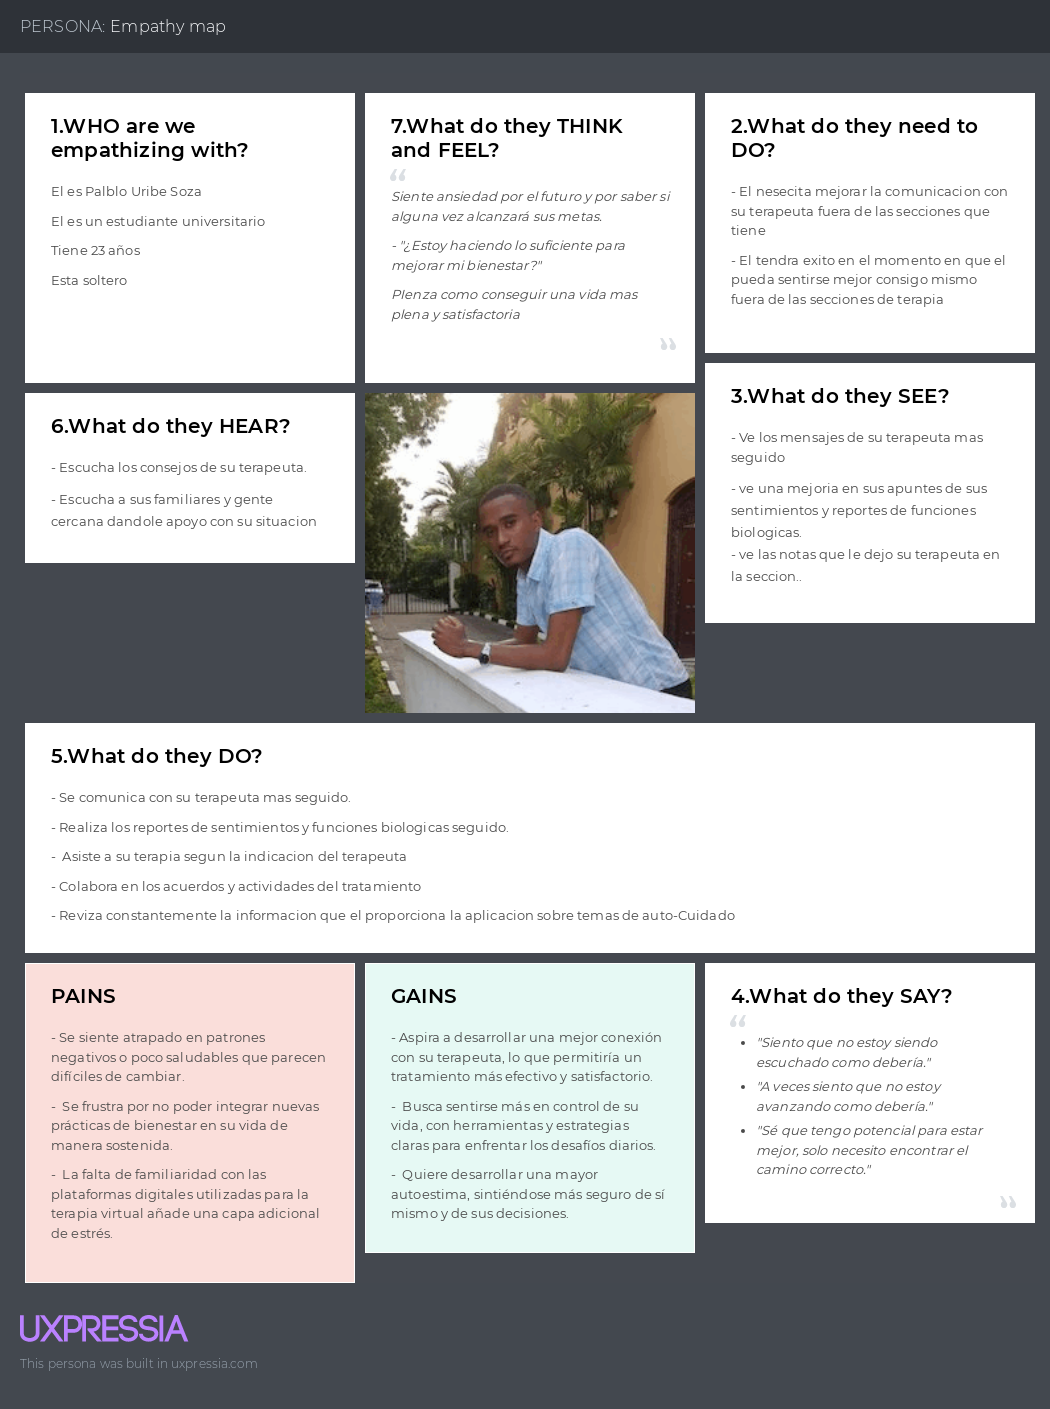
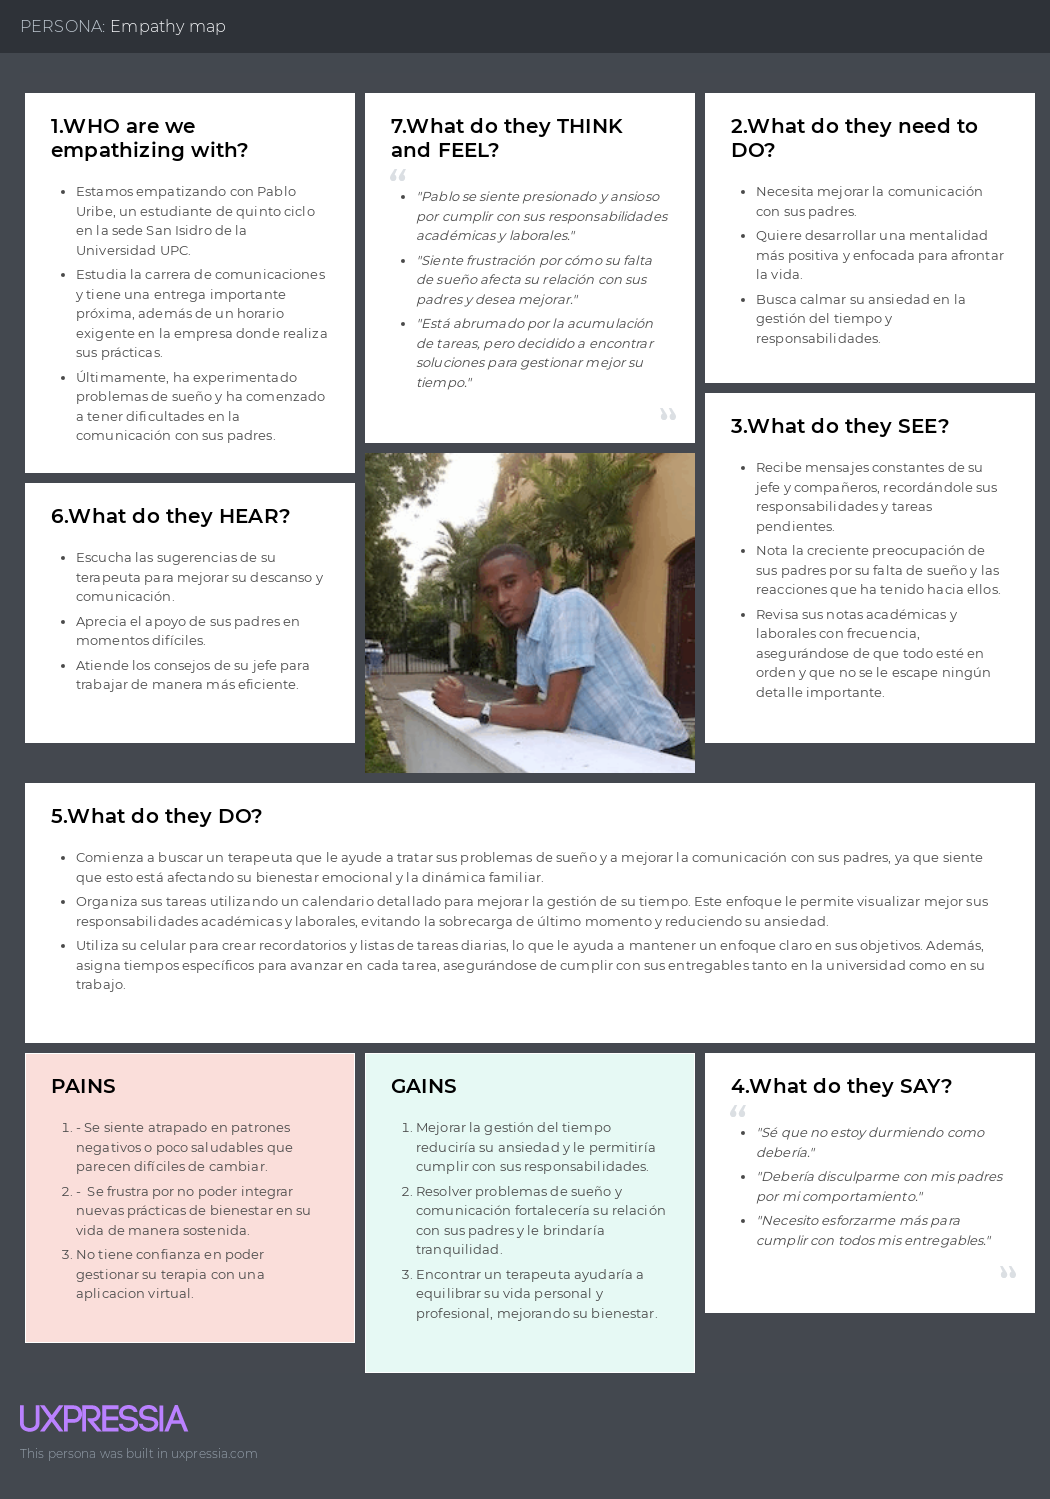
Refactor Journey Mapping  and Emphaty mapping
A refactor was made for empathy map and journey mapping.

diff --git a/report/chapter2/chapter-2.md b/report/chapter2/chapter-2.md
@@ -205,7 +205,7 @@ Finalmente, brindó las siguientes recomendaciones para el desarrollo de nuestro
 Entrevistado 3:
 
 <div align="center">
-  <img src="/assets/InterviewsInterview3.jpeg">
+  <img src="..%2F..%2Fassets%2FInterview3.jpeg">
 </div>
 
 | Nombre               | Karina                                                                                                                                         |
@@ -240,9 +240,9 @@ Entrevistado 1:
 | Apellido             | Falckenheiner |
 | Edad                 | 23 años       |
 | Distrito             | Jesús María   |
-| URL                  | [Entrevistas](hhttps://upcedupe-my.sharepoint.com/:v:/g/personal/u202213765_upc_edu_pe/ESKZeR1QZ9tMqVNWhCCyqFABPQqgTTVaG5g92D72SDbIrg?e=NpyTIo)              |
-| Inicio de entrevista |               |
-| Fin de entrevista    |               |
+| URL                  | [Entrevistas](https://upcedupe-my.sharepoint.com/:v:/g/personal/u202213765_upc_edu_pe/ESKZeR1QZ9tMqVNWhCCyqFABPQqgTTVaG5g92D72SDbIrg?e=NpyTIo)              |
+| Inicio de entrevista | 1:07:47 minutos |
+| Fin de entrevista    | 1:14:23 minutos |
 
 Resumen:
 
@@ -252,6 +252,81 @@ La entrevistada menciona utilizar diariamente plataformas digitales y usar con f
 - Agendación de sesiones
 - Poder comunicarse con el terapeuta
 - Tener precaución con exponer los datos personales
+
+Entrevistado 2:
+
+<div align=center>
+    <img src="/assets/Interview2PT.png"/></img>
+</div>
+
+
+| Nombre               | Alejandra                                                                                                                                      |
+|----------------------|------------------------------------------------------------------------------------------------------------------------------------------------|
+| Apellido             | Chavez                                                                                                                                         |
+| Edad                 | 20 años                                                                                                                                        |
+| Distrito             | Lince                                                                                                                                          |
+| URL                  | [Entrevistas](https://upcedupe-my.sharepoint.com/:v:/g/personal/u202213765_upc_edu_pe/ESKZeR1QZ9tMqVNWhCCyqFABPQqgTTVaG5g92D72SDbIrg?e=NpyTIo) |
+| Inicio de entrevista | 1:14:23 minutos                                                                                                                                |
+| Fin de entrevista    | 1:24:13 minutos                                                                                                                                |
+**Resumen:**
+
+La entrevistada menciona que utiliza plataformas digitales
+diariamente y que su navegador predeterminado es Chrome.
+Comentó que empezó a buscar ayuda profesional cuando comenzó
+a tener problemas familiares y personales. Después de un
+tiempo, sintió cierto desinterés por parte de su terapeuta
+y experimentó cambios frecuentes de terapeuta, lo que
+dificultaba el seguimiento de su caso en el lugar donde
+se atendía. Solo usaban un bot de WhatsApp para agendar
+citas, lo que resultaba inadecuado. Ella gustaría contar
+con una plataforma que le ayude a llevar un control de sus
+sesiones y tratamiento. Finalmente, brindó feedback sobre
+el proyecto con las siguientes ideas:
+
+- Informacion sobre tips de auto-ayuda.
+- Interacciones virtuales para momentos de crisis.
+- Recordatorios de citas.
+- Información general sobre el terapeuta.
+- Cifrado de datos personales.
+
+
+Entrevistado 3:
+
+<div align=center>
+    <img src="/assets/Interview3PT.png"/></img>
+</div>
+
+
+| Nombre               | Sebastian                                                                                                                                      |
+|----------------------|------------------------------------------------------------------------------------------------------------------------------------------------|
+| Apellido             | muñiz                                                                                                                                          |
+| Edad                 | 21 años                                                                                                                                        |
+| Distrito             | Pueblo libre                                                                                                                                   |
+| URL                  | [Entrevistas](https://upcedupe-my.sharepoint.com/:v:/g/personal/u202213765_upc_edu_pe/ESKZeR1QZ9tMqVNWhCCyqFABPQqgTTVaG5g92D72SDbIrg?e=NpyTIo) |
+| Inicio de entrevista | 1:24:13 minutos                                                                                                                                |
+| Fin de entrevista    | 139:22 minutos                                                                                                                                 |
+
+
+**Resumen:**
+
+El entrevistado menciona que utiliza plataformas digitales
+diariamente y que su navegador predeterminado es Chrome o
+Firefox. Comentó que empezó a buscar ayuda profesional después
+de la pandemia debido a problemas de sueño, estrés y
+ansiedad. Además, mencionó que su psicólogo le envía
+mensajes de texto para recordarle la información y los
+acuerdos de la sesión anterior. Lleva un control de sus
+sesiones y tratamiento.Finalmente, brindó observaciones
+sobre otras plataformas que ha experimentado. Comentó que
+eran accesibles, amigables y buenas para una gestión
+adecuada, pero que eran muy malas en el redireccionamiento
+y el pago en el sistema. Brindó feedback sobre el proyecto
+con las siguientes ideas:
+
+- Recordatorios de citas.
+- Citas o reuniones web.
+- Seguridad mediante cifrado y solo visible para el terapeuta.
+- Seguridad con la información personal médica.
 
 ### 2.2.3 Análisis de entrevistas
 
@@ -376,9 +451,9 @@ El User Journey Mapping se desarrolló para comprender la experiencia de los usu
 
 
 ### **Segmento 1: Medicos de la salud mental**
-![Texto alternativo](../../assets/UJMMedico.png)
+![UJMMedico.jpg](..%2F..%2Fassets%2FUJMMedico.jpg)
 ### **Segmento 2: Pacientes**
-![Texto alternativo](../../assets/UJMPaciente.png)
+![UJMPaciente.png](..%2F..%2Fassets%2FUJMPaciente.png)
 
 ## **Emphaty Mapping**
 
@@ -387,14 +462,14 @@ Para la creación del Empathy Map, hemos utilizado la información obtenida de n
 
 
 ### **Segmento 1: Medicos de la salud mental**
-![Texto alternativo](../../assets/EMMedico.png)
+![EMMedico.jpg](..%2F..%2Fassets%2FEMMedico.jpg)
 ### **Segmento 2: Pacientes**
 ![Texto alternativo](../../assets/EMPaciente.png)
 
 
 ### 2.3.5 As-is Scenario Mapping
 - **Segmento objetivo:** Pisquiatra  
-  ![as-is1](../../assets/AS-IS%20Pisquiatra.jpg)
+  ![as-is1](..%2F..%2Fassets%2FAS-IS%20Pisquiatra.jpg)
 - **Segmento objetivo:** Paciente    
   ![as-is2](../../assets/AS-IS%20Cliente.jpg)
 
